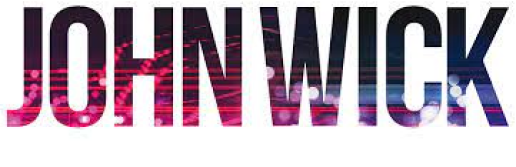
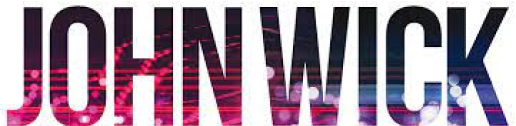
desktop sendo feito

diff --git a/index.html b/index.html
@@ -16,7 +16,7 @@
     <header>
         <a href="#">Home</a>
         <a href="./Elenco.html">Elenco</a>
-            <img src="./img/titulo-principal.png" alt="">
+            <img src="./img/titulo-principal-fundo em png .png" alt="">
         <a href="./pre-venda.html">Pré-venda</a>
         <a href="./trailer.html">Trailer</a>
     </header>
@@ -24,7 +24,7 @@
     <main>
         <div class="sinopse">
             <div class="titulo-sinopse">
-                <img src="./img/tiutlo-sinopse.png" alt="titulo-sinopse">
+                <img src="./img/titulo-principal-fundo em png .png" alt="titulo-sinopse">
             </div>
             <p>
                 John Wick é um lendário assassino de aluguel aposentado, lidando com o luto após perder o grande amor de sua vida. Quando um gângster invade sua casa, mata seu cachorro e rouba seu carro, ele é forçado a voltar à ativa e inicia sua vingança.
@@ -43,7 +43,6 @@
             </div>
         </main>
     <footer>
-        @Luis Felipe
     </footer>
 
 </body>

diff --git a/styles/desktop.css b/styles/desktop.css
@@ -7,14 +7,13 @@ body{
     flex-direction: column;
     overflow: hidden;
     background-position: right;
-    background-image: url(../img/background-img.png);
+    background-image: url(../img/john_wick_4-foto\ de\ fundo.jpg);
     background-repeat: no-repeat;
-
 }
 
 header{
     height: 150px;
-    background-color: white;
+    background-color: ;
     display: flex;
     align-items: center;
     justify-content: space-around;
@@ -48,16 +47,17 @@ main .sinopse p{
     height: 100px;
 }
 
-main .social-conteiner{
-    color: rgb(0, 0, 0);
-    gap: 42px;
-    font-size: 42px;
+.social-conteiner{
     width: 40px;
     display: flex;
-    flex-direction: row;
+    flex-direction: column;
     justify-content: flex-end;
-    align-items: flex-end;
+    align-items: flex-start;
+    color: black;
+    font-size: 32px;
+    gap: 32px;
 }
+
 footer{
     position: absolute;
     bottom: 0;
